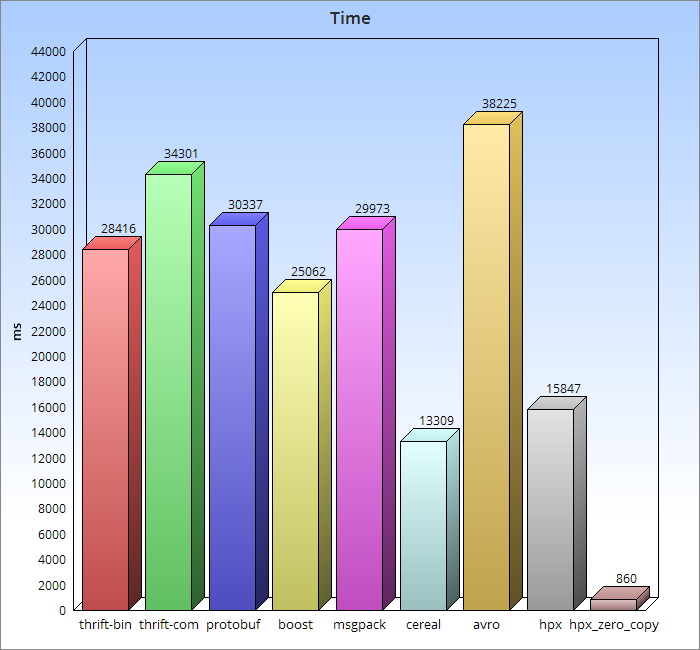
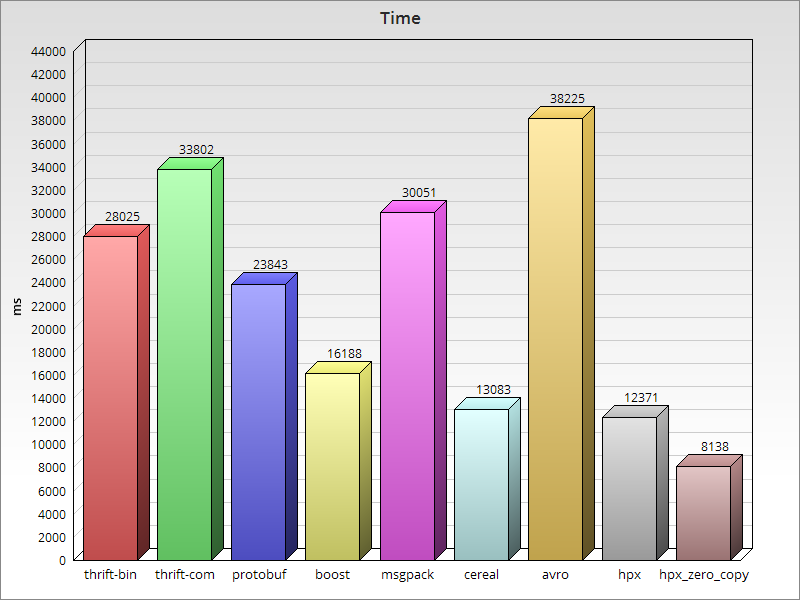
Updated plots according to measurements with new versions of cereal and hpx

diff --git a/README.md b/README.md
@@ -30,27 +30,27 @@ $ ./test 100000 protobuf cereal
 #### Results
 
 Following results were obtained running 1000000 serialize-deserialize operations 50 times and then averaging results
-on a typical desktop computer with Intel Core i5 processor running Ubuntu 14.04. Exact versions of libraries used are:
+on a typical desktop computer with Intel Xeon CPU E5-2450 processor running Debian. Compiler was gcc-6.0 (from trunk). Exact versions of libraries used are:
 
-* thrift 0.9.1
+* thrift 0.9.3
 * protobuf 2.6.0
-* boost 1.56.0
+* boost 1.60.0
 * msgpack 0.5.9
-* cereal 1.0.0
+* cereal 1.1.2
 * avro 1.7.7
-* hpx 0.9.11
+* hpx 0.9.12
 
 | serializer     | object's size | avg. total time |
 | -------------- | ------------- | --------------- |
-| thrift-binary  | 17017         | 28416           |
-| thrift-compact | 11597         | 34301           |
-| protobuf       | 12571         | 30337           |
-| boost          | 17470         | 25062           |
-| msgpack        | 11902         | 29973           |
-| cereal         | 17416         | 13309           |
+| thrift-binary  | 17017         | 28025           |
+| thrift-compact | 11597         | 33802           |
+| protobuf       | 12571         | 23843           |
+| boost          | 17470         | 16188           |
+| msgpack        | 11902         | 30051           |
+| cereal         | 17416         | 13083           |
 | avro           | 12288         | 38225           |
-| hpx            | 17433         | 15847           |
-| hpx_zero_copy  | 33            | 860             |
+| hpx            | 17433         | 12371           |
+| hpx_zero_copy  | 9433          | 8138            |
 
 Size measured in bytes, time measured in milliseconds.
 
